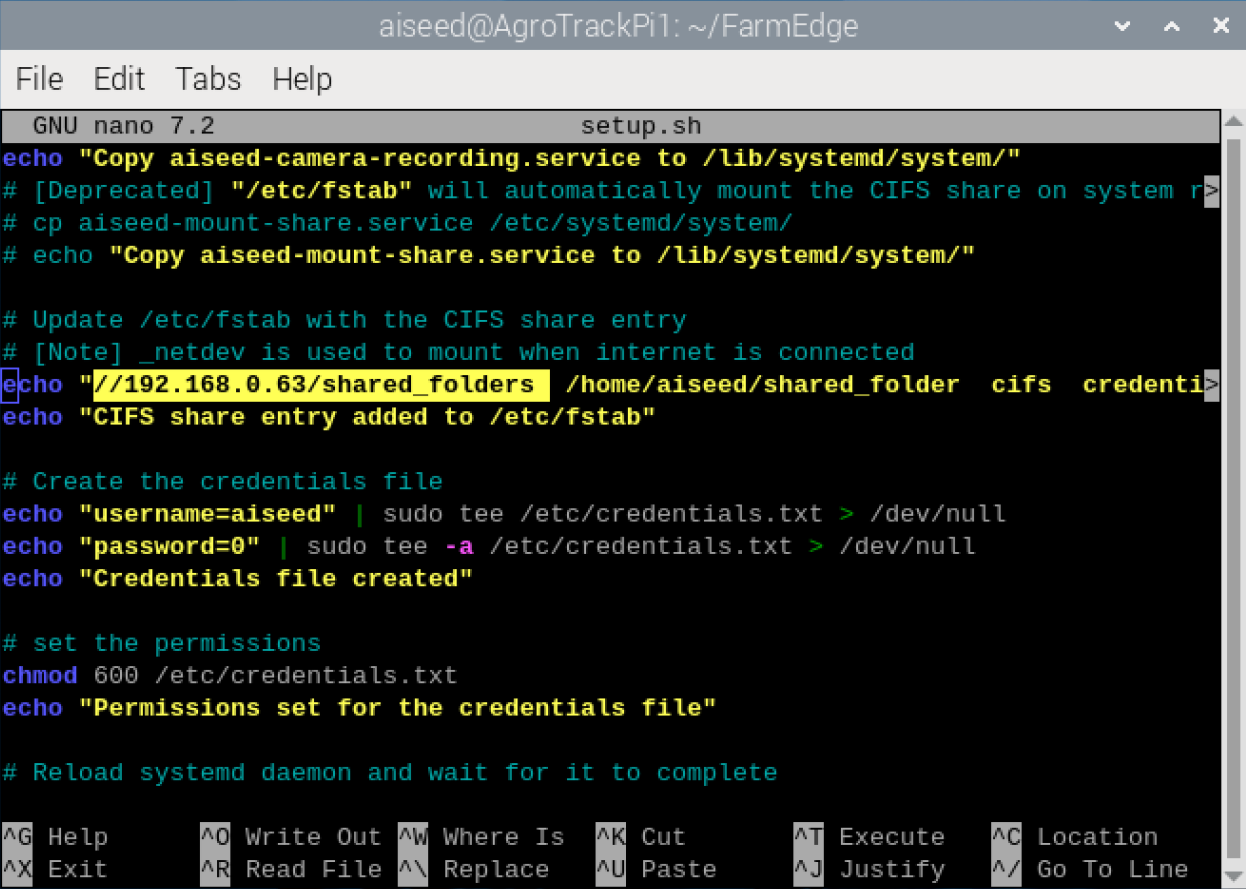
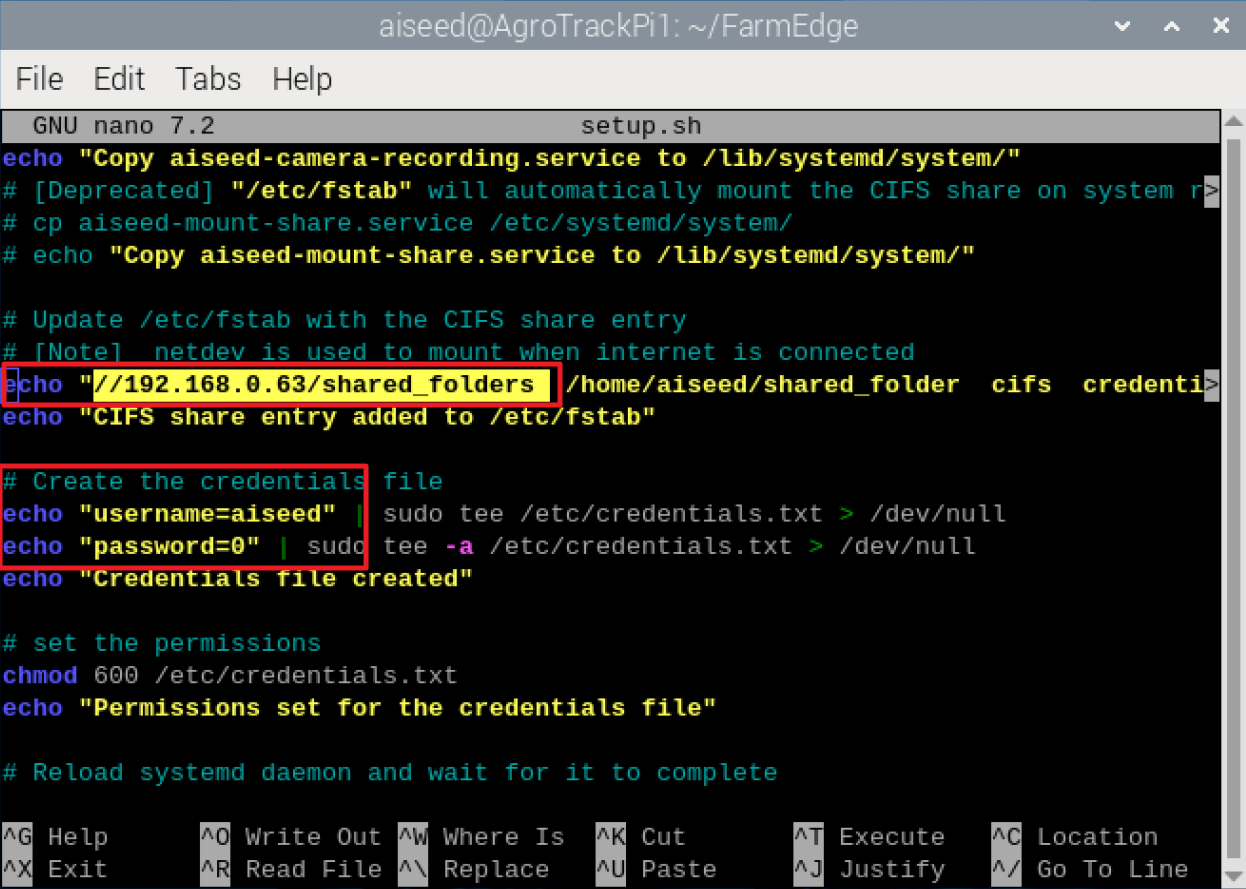
update README.md and images for setup host pc.

Changed region(s): [[0.0, 0.3948, 0.4575, 0.4859], [0.0, 0.5163, 0.305, 0.6682]]

diff --git a/README.md b/README.md
@@ -16,7 +16,8 @@ Before installing the services on the edge devices, make sure setting up the  [s
         nano setup.sh
         ```
 
-     2. Change ip address of host PC ans save (around line number 31)
+     2. Change smb/cifs information of host PC and save (around line number 31)
+        * username = aiseed or linux
         ![shared_client.png](images/setup_host_ip.png)
 
      3. Open and Change `FarmEdge/camera-control/config.yaml` as nano
